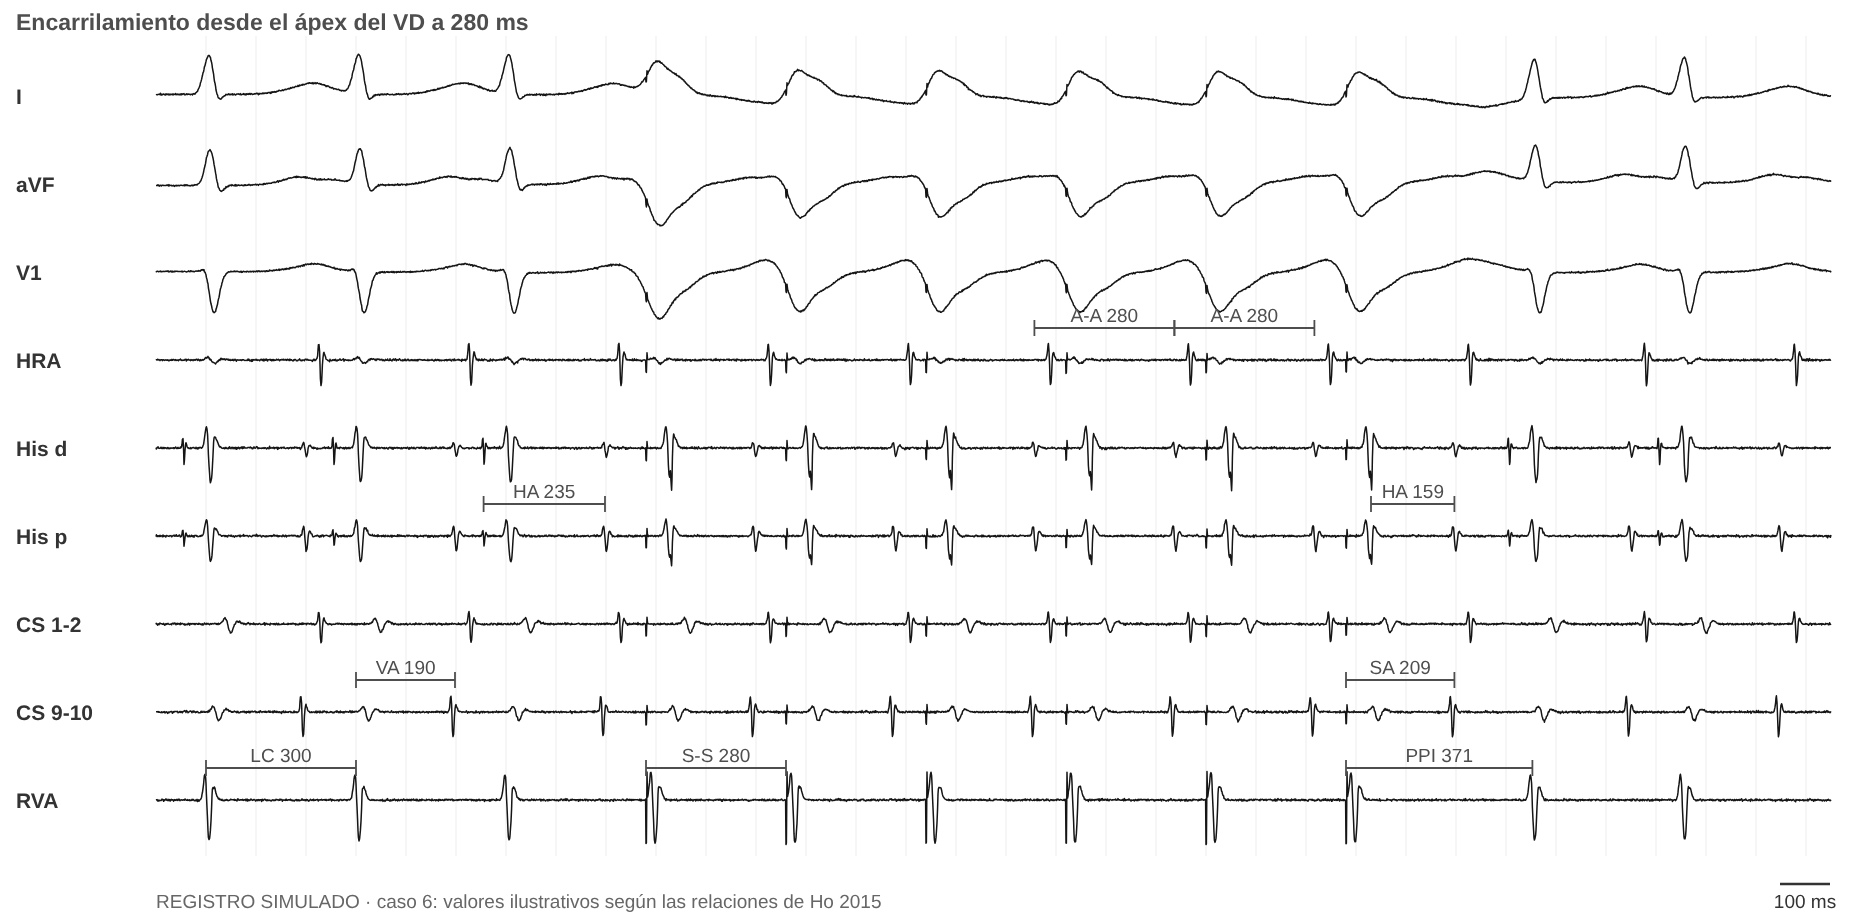
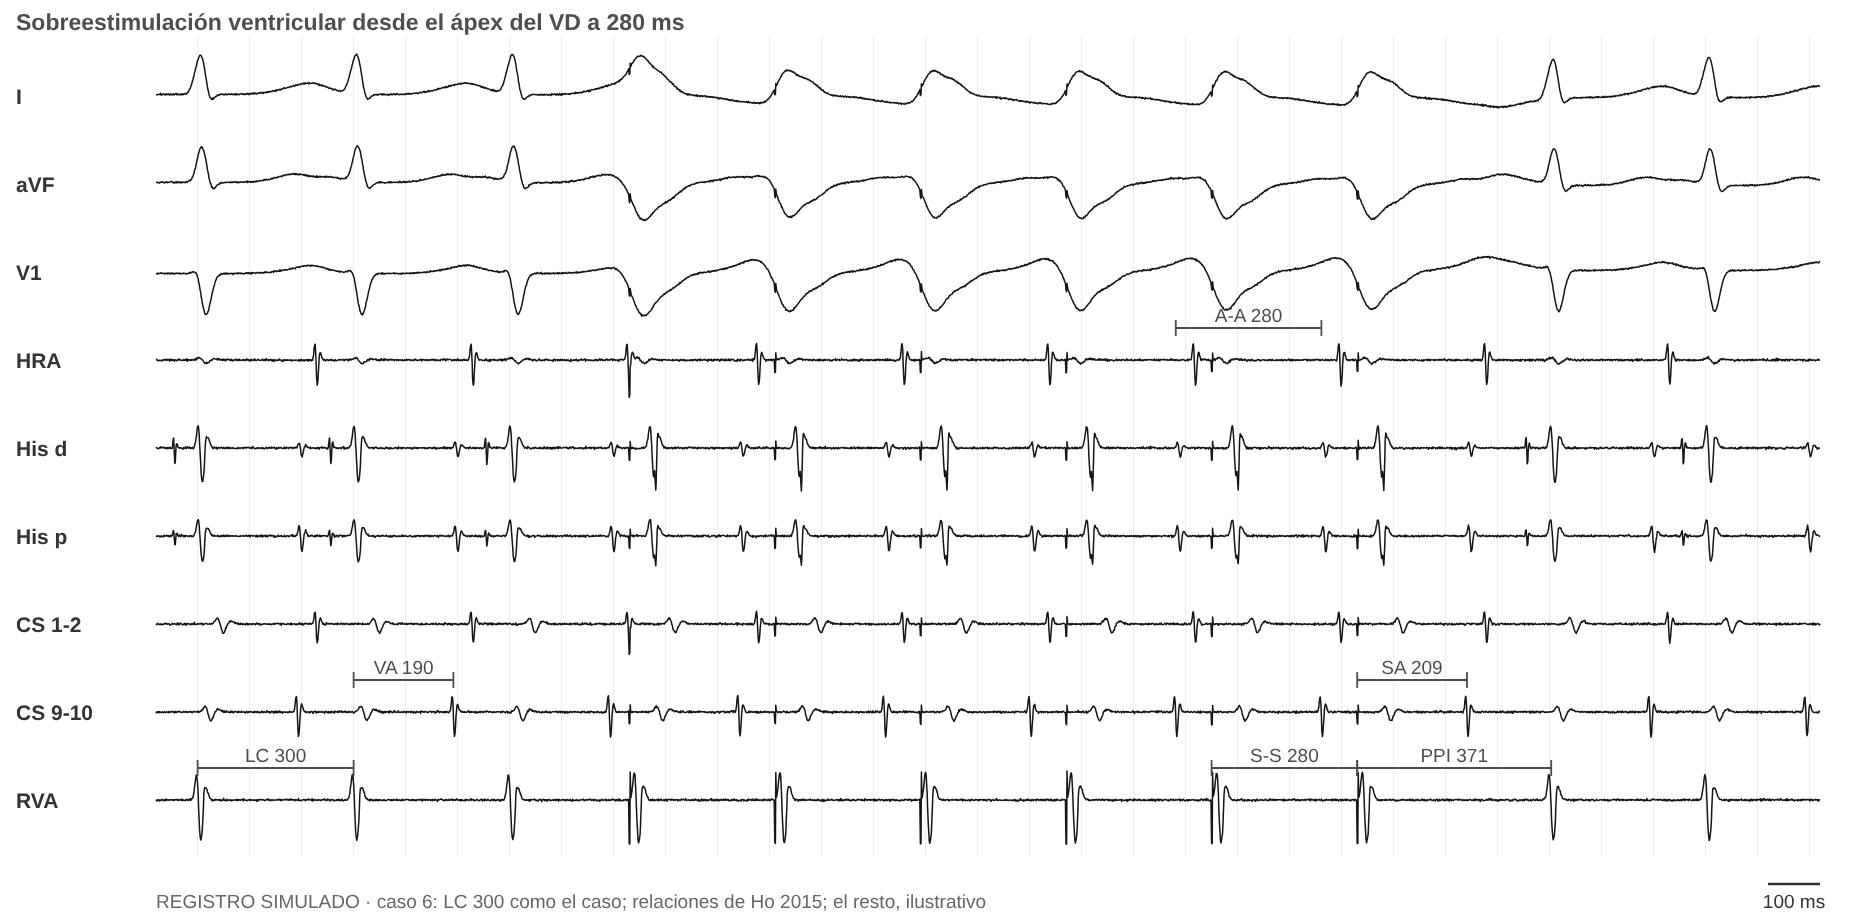
Caso 6 en el formato nuevo: todas las maniobras simuladas, valores durante el análisis y devolución paso a paso
Claude-Session: https://claude.ai/code/session_01Pw5rjt62KK5LeJZoEyFiaM

diff --git a/index.html b/index.html
@@ -313,7 +313,7 @@ dialog::backdrop{background:rgba(0,0,0,.45)}
 
 <div id="visor" hidden role="dialog" aria-label="Imagen ampliada"><div class="vbar"><button type="button" class="vm" aria-label="Achicar">−</button><button type="button" class="vp" aria-label="Agrandar">+</button><button type="button" class="vf">Ajustar</button><button type="button" class="vx">✕ Cerrar</button></div><div class="vbox"><img alt=""></div></div>
 <script>
-const APPV = 155;   // igual al número de CACHE_VERSION de sw.js
+const APPV = 156;   // igual al número de CACHE_VERSION de sw.js
 // ===============================================================================================================
 // Referencias. "propia" = artículo del material base; las demás se citan a través de esas revisiones.
 // ===============================================================================================================
@@ -1341,17 +1341,20 @@ const PCASOS = [
       parahis: { v: 'En sinusal, con captura del His: SA 90 y QRS 95. Solo V: SA 140 y QRS 150. Misma secuencia auricular.', r: 'Respuesta nodal: no hay una vía septal conduciendo en sinusal.', u: 'util', img: 'figs/sim/prac/p5_parahis.png' },
       eha: { v: 'EA desde el ostium del SC con el His refractario: el His siguiente sale a su tiempo (H-H 380).', r: 'No modifica el His.', u: 'util', img: 'figs/sim/prac/p5_eha.png' } },
     dx: ['trnav_a'], ex: 'La inducción con salto de la conducción retrógrada y el RP largo con la A precoz en el ostium del SC plantean TRNAV atípica, PJRT o TA. La respuesta es un seudo A-A-V (SA 380 > LC de estimulación 360): contada desde la última A acelerada es A-V, y el VA linking también excluye la TA. PPI−LC 185, SA−VA 150, ΔHA +25 y ΔVA +30 indican que el ventrículo no está en el circuito, y la EV con His refractario no mueve la A: TRNAV atípica.', refs: ['veen11', 'ho15', 'man95'] },
-  { id: 'c6', t: 'Taquicardia incesante y miocardiopatía', p: 'Niño de 6 años con taquicardia incesante y FEVI de 35 %. ECG: P negativa en las inferiores, RP largo.',
-    ecg: 'figs/sim/casos/c6_ecg.jpg', ecgReal: true, basal: 'figs/sim/casos/c6_basal.png', ind: 'figs/sim/casos/c6_ind.png',
-    h: ['TSV de QRS angosto, LC 300 ms, relación 1:1', 'VA 190 ms, HA 235 ms', 'A más precoz en el ostium del SC'],
-    m: { vop: { r: 'Estimulando a 280 ms el His se captura en forma ortodrómica (misma morfología que en la TSV). Respuesta A-V.', u: 'clave', img: 'figs/sim/prac/p6_vop.png' },
-      medidas: { r: 'PPI−LC 71 ms; ΔVA 19 ms; ΔHA −76 ms.', u: 'clave', img: 'figs/sim/prac/p6_vop.png' },
-      ehr: { r: 'Una EV con His refractario retrasa la A 20 ms sin cambiar la secuencia.', u: 'clave', img: 'figs/sim/prac/p6_ehr.png' },
-      aop: { r: 'ΔAH 10 ms.', u: 'clave', img: 'figs/sim/prac/p6_aop.png' }, diff: { r: 'ΔVA (base − ápex) −15 ms.', u: 'util' },
-      ado: { r: 'La TSV termina con un V: bloqueo en la vía.', u: 'trampa' },
-      parahis: { r: 'Respuesta nodal: la vía conduce más lento que el nodo.', u: 'trampa' },
-      pre: { r: 'Sin doble vía. Conducción VA decremental, concéntrica, más precoz en el ostium del SC.' } },
-    dx: ['pjrt'], ex: 'El His ortodrómico y la EV-HR que retrasa la A demuestran una vía decremental que participa; el ΔAH < 20 ms ubica la aurícula en el circuito. Es una PJRT. La adenosina y la para-Hisiana engañan con las vías decrementales.', refs: ['ho15', 'veen12', 'man95'] },
+  { id: 'c6', t: 'Taquicardia incesante y miocardiopatía', p: 'Niño de 6 años con taquicardia incesante y FEVI de 35 %.',
+    ecg: 'figs/sim/casos/c6_ecg.jpg', ecgReal: true, basal: 'figs/sim/casos/c6_basal.png', ind: 'figs/sim/casos/c6_ind.png', indt: 'Extraestímulo ventricular S1-S2 600-300',
+    h: ['TSV de QRS angosto, LC 300 ms, relación AV 1:1', 'Protocolo: extraestímulo ventricular desde el ápex del VD, S1-S2 600-300'],
+    hk: ['RP largo: VA 190 ms (HA 235) con la A más precoz en el ostium del SC y P negativa en las inferiores. En una taquicardia incesante con miocardiopatía el diferencial es PJRT, TA septal baja y TRNAV atípica.', 'Inducción: con S2 300 el SA se alarga de 150 a 215 ms (conducción retrógrada decremental) y empieza la taquicardia con la misma secuencia auricular.'],
+    m: { vop: { v: 'Estimulando el ápex del VD a 280 ms las A se aceleran a 280 con la misma secuencia; durante la estimulación el His se activa antes que la A, con la misma morfología que en la TSV. Al cortar, el primer electrograma que sigue a la última A es un V (secuencia A-V).', r: 'Respuesta A-V: excluye la TA. El His capturado en forma ortodrómica (fusión intracardíaca) indica que la estimulación entra al circuito por la vía antes que por el His: TRAV.', u: 'clave', img: 'figs/sim/prac/p6_vop.png' },
+      medidas: { v: 'PPI 371 ms con LC 300 (PPI−LC 71). SA 209 ms con VA 190 (SA−VA 19). HA 235 en la TSV y 159 estimulando (ΔHA −76).', r: 'PPI−LC < 115 y SA−VA < 85: el ventrículo está en el circuito. ΔHA < −10: estimulando, His y A se activan en paralelo. Las tres apuntan a TRAV.', u: 'clave', img: 'figs/sim/prac/p6_medidas.png' },
+      diff: { v: 'Encarrilando a 280 ms: SA 209 desde el ápex y SA 194 desde la base del VD (VA 190). ΔVA (base − ápex) −15 ms.', r: 'ΔVA ≤ 20 ms: desde la base el frente llega antes a la vía septal; TRAV.', u: 'clave', img: 'figs/sim/prac/p6_diff.png' },
+      ehr: { v: 'EV desde el ápex con el His refractario: la A siguiente se retrasa 20 ms (A-A 320) con la misma secuencia y la taquicardia sigue.', r: 'Con el His refractario la EV solo pudo llegar a la A por una vía, y retrasarla indica que la vía es decremental. Demuestra la vía y que participa en el circuito: PJRT.', u: 'clave', img: 'figs/sim/prac/p6_ehr.png' },
+      aop: { v: 'Estimulando la AD alta a 280 ms los V se aceleran a 280 (V-V 280; en la TSV, 300) con AH 75 (en la TSV, 65). Al cortar, el VA del primer latido es 190 ms, igual al de la TSV.', r: 'VA linking: excluye la TA. ΔAH (estimulando − TSV) 10 ms < 20: la aurícula forma parte del circuito; excluye la TRNAV atípica.', u: 'clave', img: 'figs/sim/prac/p6_aop.png' },
+      ado: { v: 'La taquicardia termina: el último latido es un V que no conduce a la A.', r: 'Engañosa: la terminación con un V sugiere bloqueo en la vía lenta retrógrada (TRNAV atípica), pero las vías decrementales de la PJRT también son sensibles a la adenosina y bloquean igual.', u: 'trampa', img: 'figs/sim/prac/p6_ado.png' },
+      parahis: { v: 'En sinusal, con captura del His: SA 120 y QRS 95. Solo V: SA 170 y QRS 150. Misma secuencia auricular.', r: 'Engañosa: respuesta nodal porque la vía decremental conduce más lento que el nodo; no excluye la PJRT.', u: 'trampa', img: 'figs/sim/prac/p6_parahis.png' },
+      pre: { v: 'Estimulación ventricular en sinusal a 500 y 400 ms.', r: 'Engañosa: SA 150 a 500 y 200 a 400 (decremental), concéntrica con la A más precoz en el ostium del SC. Parece conducción por el nodo, pero la vía de la PJRT también es decremental.', u: 'trampa', img: 'figs/sim/prac/p6_pre.png' },
+      eha: { v: 'EA desde el ostium del SC con el His refractario: el His siguiente sale a su tiempo (H-H 300).', r: 'No modifica el His: esperable en la TRAV (el EA no puede bajar por el nodo refractario).', u: 'util', img: 'figs/sim/prac/p6_eha.png' } },
+    dx: ['pjrt'], ex: 'Taquicardia incesante de RP largo con la A más precoz en el ostium del SC. La respuesta A-V y el VA linking excluyen la TA; el ΔAH de 10 ms ubica la aurícula en el circuito y excluye la TRNAV atípica. PPI−LC 71, SA−VA 19, ΔHA −76, ΔVA −15 y el His ortodrómico ponen al ventrículo en el circuito, y la EV con His refractario que retrasa la A demuestra una vía decremental que participa: PJRT. La adenosina, la para-Hisiana y la conducción VA decremental engañan porque la vía es decremental.', refs: ['ho15', 'veen12', 'man95'] },
   { id: 'c7', t: 'Taquicardia con A y V simultáneos', p: 'Niña de 13 meses con taquicardia de QRS angosto casi permanente.',
     ecg: 'figs/sim/casos/c7_ecg.png', ecgReal: true, basal: 'figs/sim/casos/c7_basal.png', ind: 'figs/sim/casos/c7_ind.png',
     h: ['TSV de QRS angosto, LC 425 ms', 'Relación 1:1 con A y V simultáneos (VA septal ~0)', 'Activación concéntrica'],

diff --git a/sw.js b/sw.js
@@ -1,6 +1,6 @@
 // Permite instalar la app y abrirla sin conexión. Primero la red (siempre lo último publicado); si no hay, la copia.
 // Si cambiás un archivo, subí CACHE_VERSION.
-const CACHE_VERSION = 'mef-v155';
+const CACHE_VERSION = 'mef-v156';
 const ARCHIVOS = ['./', './index.html', './manifest.json', './iconos/icon-192.png', './iconos/icon-512.png'];
 self.addEventListener('install', e => e.waitUntil(caches.open(CACHE_VERSION).then(c => c.addAll(ARCHIVOS)).then(() => self.skipWaiting())));
 self.addEventListener('activate', e => e.waitUntil(caches.keys().then(ks => Promise.all(ks.filter(k => k !== CACHE_VERSION).map(k => caches.delete(k)))).then(() => self.clients.claim())));

diff --git a/herramientas/simulador/cases6.py b/herramientas/simulador/cases6.py
@@ -609,6 +609,116 @@ S['p5_eha'] = dict(win=(-100, vs[-1] + 250), pxms=0.25, title='EA con His refrac
     cal=[(hs[1], hs[2], 'His d', f'H-H {LC5}'), (hs[2], hs[3], 'His d', f'H-H {LC5}')],
     marks=[(apb, 'V1', 'EA')])
 
+# =====================================================================================================
+# Caso 6 (PJRT; LC 300 como el ECG real, VA 190, AH 65, A más precoz en el ostium del SC).
+# Relaciones de Ho 2015: PPI−LC 71, SA−VA 19, ΔHA −76 con His ortodrómico, EV-HR que retrasa la A 20, ΔAH 10.
+SRC6 = 'caso 6: LC 300 como el caso; relaciones de Ho 2015; el resto, ilustrativo'
+LC6, VA6, AH6, SC6, SA6, PPI6, HAp6 = 300, 190, 65, 280, 209, 371, 159
+
+
+def vop6(title, med):
+    svt = [i * LC6 for i in range(3)]
+    sp = [svt[-1] + 230 + SC6 * k for k in range(6)]
+    A = [v + VA6 for v in svt] + [s + SA6 for s in sp]
+    ret = sp[-1] + PPI6
+    after = [ret, ret + LC6]
+    cal = [(svt[0], svt[1], 'RVA', f'LC {LC6}'), (svt[1], svt[1] + VA6 + 2, 'CS 9-10', f'VA {VA6}'), (sp[-2], sp[-1], 'RVA', f'S-S {SC6}'),
+           (A[-3] + 2, A[-2] + 2, 'HRA', f'A-A {SC6}'), (sp[-1], A[-1] + 2, 'CS 9-10', f'SA {SA6}'), (sp[-1], ret + 2, 'RVA', f'PPI {PPI6}')]
+    marks = []
+    if med:
+        cal = [c for c in cal if not c[3].startswith(('S-S', 'A-A'))]
+        cal += [(svt[1] - HV, svt[1] + VA6, 'His p', f'HA {HV + VA6}'), (A[-1] - HAp6, A[-1], 'His p', f'HA {HAp6}')]
+        marks = [(sp[-1] + 160, 'I', f'SA − VA = {SA6} − {VA6} = {SA6 - VA6} ms'), (sp[-1] + 160, 'aVF', f'PPI − LC = {PPI6} − {LC6} = {PPI6 - LC6} ms'),
+                 (sp[-1] + 160, 'V1', f'ΔHA = {HAp6} − {HV + VA6} = −{HV + VA6 - HAp6} ms')]
+    return dict(win=(-80, after[-1] + 220), pxms=0.26, title=title, channels=CH6, src=SRC6,
+        beats=[(v, 'n') for v in svt + after] + [(s, 'pa') for s in sp], spikes=sp,
+        atr=[(a, 'conc_cs', -1) for a in A + [v + VA6 for v in after]],
+        h_ante=[v - HV for v in svt + after] + [a - HAp6 for a in A[3:]], cal=cal, marks=marks)
+
+
+S['p6_vop'] = vop6('Sobreestimulación ventricular desde el ápex del VD a 280 ms', False)
+S['p6_medidas'] = vop6('Medidas sobre la sobreestimulación ventricular (ápex del VD a 280 ms): PPI, SA y HA', True)
+
+
+def diff6(sa, typ, title):
+    svt = [0, LC6]
+    sp = [560 + SC6 * k for k in range(6)]
+    A = [v + VA6 for v in svt] + [s + sa for s in sp]
+    ret = sp[-1] + PPI6 + (sa - SA6)
+    return dict(win=(-80, ret + LC6 + 220), pxms=0.26, channels=CH6, title=title, spikes=sp, pace_ch='RVA', src=SRC6,
+        beats=[(v, 'n') for v in svt] + [(s, typ) for s in sp] + [(ret, 'n'), (ret + LC6, 'n')],
+        atr=[(a, 'conc_cs', -1) for a in A] + [(ret + VA6, 'conc_cs', -1), (ret + LC6 + VA6, 'conc_cs', -1)],
+        h_ante=[v - HV for v in svt] + [ret - HV, ret + LC6 - HV] + [a - HAp6 for a in A[2:]],
+        cal=[(svt[1], svt[1] + VA6 + 2, 'CS 9-10', f'VA {VA6}'), (sp[-1], A[-1] + 2, 'CS 9-10', f'SA {sa}'), (svt[0], svt[1], 'RVA', f'LC {LC6}')])
+
+
+S['p6_diff_a'] = diff6(209, 'pa', 'A. Encarrilamiento desde el ápex del VD (280 ms)')
+S['p6_diff_b'] = diff6(194, 'pb', 'B. Encarrilamiento desde la base del VD (280 ms)')
+
+# EV con His refractario: la A siguiente se retrasa 20 ms, misma secuencia, la taquicardia sigue.
+k = 3
+vs = [i * LC6 for i in range(k)]
+h_exp = k * LC6 - HV
+A = [v + VA6 for v in vs] + [k * LC6 + VA6 + 20]
+nxt = A[-1] + (LC6 - VA6)
+after = [nxt, nxt + LC6]
+A += [v + VA6 for v in after]
+S['p6_ehr'] = dict(win=(-80, after[-1] + 200), pxms=0.30, title='EV con His refractario durante la taquicardia', channels=CH6, src=SRC6,
+    spikes=[h_exp], pace_ch='RVA', beats=[(v, 'n') for v in vs] + [(h_exp, 'pa')] + [(v, 'n') for v in after],
+    atr=[(a, 'conc_cs', -1) for a in A], h_ante=[v - HV for v in vs] + [h_exp] + [v - HV for v in after],
+    cal=[(A[k - 2] + 2, A[k - 1] + 2, 'CS 9-10', f'A-A {LC6}'), (A[k - 1] + 2, A[k] + 2, 'CS 9-10', f'A-A {LC6 + 20}')],
+    marks=[(h_exp, 'V1', 'EV'), (h_exp, 'His p', 'H')])
+
+# Estudio basal: estimulación del VD a 500 y 400: SA 150 y 200 (decremental), concéntrica con la A precoz en el ostium del SC.
+sp = [0, 500, 1000, 1400, 1800]
+sas = [150, 150, 150, 200, 200]
+S['p6_pre'] = dict(win=(-80, 2150), pxms=0.30, title='Estimulación ventricular en ritmo sinusal: 500 y 400 ms', channels=CH6, src=SRC6,
+    spikes=sp, beats=[(s, 'pa') for s in sp], atr=[(s + a, 'conc_cs', -1) for s, a in zip(sp, sas)],
+    cal=[(sp[0], sp[1], 'RVA', 'S-S 500'), (sp[1], sp[1] + 152, 'CS 9-10', 'SA 150'), (sp[2], sp[3], 'RVA', 'S-S 400'), (sp[3], sp[3] + 202, 'CS 9-10', 'SA 200')])
+
+# Para-Hisiana en sinusal: SA 120 → 170, misma secuencia.
+sp = [0, 650, 1300, 1950]
+cap = [True, False, True, False]
+S['p6_parahis'] = dict(win=(-80, 2300), pxms=0.32, title='Estimulación para-Hisiana en ritmo sinusal', channels=CH6, src=SRC6,
+    spikes=sp, pace_ch='His p', beats=[(s + HV if c else s, 'n' if c else 'pa') for s, c in zip(sp, cap)],
+    atr=[(s + (120 if c else 170), 'conc_cs', -1) for s, c in zip(sp, cap)],
+    cal=[(sp[0], sp[0] + 122, 'CS 9-10', 'SA 120'), (sp[1], sp[1] + 172, 'CS 9-10', 'SA 170'), (sp[2] + HV, sp[2] + HV + 95, 'RVA', 'QRS 95'), (sp[3], sp[3] + 150, 'RVA', 'QRS 150')],
+    marks=[(sp[0] + 30, 'V1', 'His + V'), (sp[1] + 40, 'V1', 'solo V')])
+
+# Sobreestimulación auricular desde la AD alta a 280: AH 75 (TSV 65, ΔAH 10); al cortar, VA 190 como en la TSV.
+AHs6 = AH6 + 10
+vs = [0, LC6, 2 * LC6]
+A = [v + VA6 for v in vs]
+sp = [A[-1] + 200 + 280 * k for k in range(6)]
+pv = [s + 28 + AHs6 + HV for s in sp]
+vs2 = [pv[-1] + LC6, pv[-1] + 2 * LC6]
+S['p6_aop'] = dict(win=(-80, vs2[-1] + 220), pxms=0.24, title='Sobreestimulación auricular desde la AD alta a 280 ms', channels=CH6, src=SRC6,
+    beats=[(v, 'n') for v in vs + pv + vs2], aspikes=sp, apace_ch='HRA',
+    atr=[(a, 'conc_cs', -1) for a in A] + [(s + 5, 'sinus', 1) for s in sp] + [(v + VA6, 'conc_cs', -1) for v in [pv[-1]] + vs2],
+    h_ante=[v - HV for v in vs + pv + vs2],
+    cal=[(vs[0], vs[1], 'RVA', f'V-V {LC6}'), (vs[0], A[0] + 2, 'CS 9-10', f'VA {VA6}'), (A[1] + 2, vs[2] - HV, 'His d', f'AH {AH6}'),
+         (sp[-2], sp[-1], 'HRA', 'S-S 280'), (pv[-2], pv[-1], 'RVA', 'V-V 280'), (sp[-1] + 28, pv[-1] - HV, 'His d', f'AH {AHs6}'),
+         (pv[-1], pv[-1] + VA6 + 2, 'CS 9-10', f'VA {VA6}')])
+
+# Adenosina: termina con un V (bloqueo en la vía).
+vs = [0, LC6, 2 * LC6, 3 * LC6]
+A = [v + VA6 for v in vs[:3]]
+S['p6_ado'] = dict(win=(-80, vs[-1] + 700), pxms=0.25, title='Adenosina IV durante la taquicardia', channels=CH6, src=SRC6,
+    beats=[(v, 'n') for v in vs], atr=[(a, 'conc_cs', -1) for a in A], h_ante=[v - HV for v in vs],
+    cal=[(vs[0], vs[1], 'RVA', f'LC {LC6}'), (vs[1], A[1] + 2, 'CS 9-10', f'VA {VA6}')],
+    marks=[(vs[3] + 120, 'aVF', 'último: V sin A')])
+
+# EA con His refractario desde el ostium del SC: el His siguiente sale a su tiempo.
+hs = [i * LC6 - HV for i in range(6)]
+apb = hs[3] + 10
+vs = [h + HV for h in hs]
+A = [v + VA6 for k2, v in enumerate(vs) if k2 != 3]
+S['p6_eha'] = dict(win=(-100, vs[-1] + 250), pxms=0.27, title='EA con His refractario desde el ostium del SC', channels=CH6, src=SRC6,
+    beats=[(x, 'n') for x in vs], aspikes=[apb], apace_ch='CS 9-10',
+    atr=[(a, 'conc_cs', -1) for a in A] + [(apb + 4, 'conc_cs', 1)], h_ante=hs,
+    cal=[(hs[2], hs[3], 'His d', f'H-H {LC6}'), (hs[3], hs[4], 'His d', f'H-H {LC6}')],
+    marks=[(apb, 'V1', 'EA')])
+
 if __name__ == '__main__':
     for k in (sys.argv[3:] or S):
         render(S[k], f'{OUT}/{k}.svg')

diff --git a/herramientas/simulador/practica.py b/herramientas/simulador/practica.py
@@ -12,8 +12,8 @@ from simlib import render
 S = {**cases.S, **cases2.S, **cases3.S, **cases4.S}
 
 USADAS = ['arias10', 'burri12', 'ho15', 'knight99', 'michaud01', 'p10_ehr', 'p10_vop', 'p11_adec', 'p11_anillo', 'p11_eapre',
-          'p12_eapre', 'p12_pre', 'p13_abll', 'p2_ehr', 'p3_ado', 'p3_vop', 'p4old_ehr_a', 'p4old_ehr_b', 'p4old_pre', 'p5old_ehr', 'p6_aop',
-          'p6_ehr', 'p8_verap_a', 'p8_verap_b', 'p9_diff_a', 'p9_diff_b', 'p9_ehr', 'tvf_post', 'veen11_fusion', 'veen11_pseudo', 'veen12_jt_a', 'veen12_jt_b']
+          'p12_eapre', 'p12_pre', 'p13_abll', 'p2_ehr', 'p3_ado', 'p3_vop', 'p4old_ehr_a', 'p4old_ehr_b', 'p4old_pre', 'p5old_ehr', 'p6old_aop',
+          'p6old_ehr', 'p8_verap_a', 'p8_verap_b', 'p9_diff_a', 'p9_diff_b', 'p9_ehr', 'tvf_post', 'veen11_fusion', 'veen11_pseudo', 'veen12_jt_a', 'veen12_jt_b']
 
 TITULOS = {'veen12_jt_a': 'A. EA con His refractario (ostium del SC)', 'veen12_jt_b': 'B. EA precoz (AD alta)','veen11_pseudo': 'Encarrilamiento desde el ápex del VD','p4old_ehr_a': 'A. EV-HR desde el ápex del VD', 'p4old_ehr_b': 'B. EV-HR desde el VI basal (rama del SC)',
            'p8_verap_a': 'A. Antes del verapamilo', 'p8_verap_b': 'B. Con verapamilo',
@@ -25,7 +25,7 @@ RENOMBRAR = {'LC TSV 430': 'LC 430', 'VA': 'VA 120', 'SA': 'SA 160', 'PPI': 'PPI
 # Calibres agregados: la LC (o el A-A) de la TSV, para que se pueda calcular
 EXTRA = {'p10_vop': [(0, 390, 'RVA', 'LC 390')], 'p10_ehr': [(0, 390, 'RVA', 'LC 390')],
          'p11_eapre': [], 'p12_eapre': []}
-EHR = ['p2_ehr', 'p4old_ehr_a', 'p4old_ehr_b', 'p5old_ehr', 'p6_ehr', 'p9_ehr']   # se agrega el A-A de la TSV
+EHR = ['p2_ehr', 'p4old_ehr_a', 'p4old_ehr_b', 'p5old_ehr', 'p6old_ehr', 'p9_ehr']   # se agrega el A-A de la TSV
 
 
 def limpiar(k, sc):

diff --git a/herramientas/simulador/cases4.py b/herramientas/simulador/cases4.py
@@ -36,7 +36,7 @@ S['p2old_ehr'] = ehr(280, 110, 'conc_cs', 25, src='caso 2 (didáctico): LC 280, 
 S['p5old_ehr'] = ehr(460, 300, 'conc_cs', 0, early=25, src='caso 5 (LC 460 como el ECG real, VA 300); EV-HR con el V local adelantado > 60 ms, sin cambio de la A',
                   lab='A-A 460 (sin cambio)')
 # Caso 6: PJRT, LC 521, VA 290; EV-HR retrasa la A 20 ms.
-S['p6_ehr'] = ehr(300, 190, 'conc_cs', -20, src='caso 6 (LC 300 como el ECG real, VA 190); EV-HR que retrasa la A 20 ms', lab='A-A 320 (+20)')
+S['p6old_ehr'] = ehr(300, 190, 'conc_cs', -20, src='caso 6 (LC 300 como el ECG real, VA 190); EV-HR que retrasa la A 20 ms', lab='A-A 320 (+20)')
 # Caso 9: PJRT (Arias 2010), LC 480, VA 296; EV-HR adelanta la A (magnitud ilustrativa).
 S['p9_ehr'] = ehr(310, 180, 'conc_cs', 20, src='caso 9 (LC 310 como el ECG real, VA 180); EV-HR que adelanta la A 20 ms', lab='A-A 290 (−20)')
 S['p9_ehr']['pxms'] = 0.25
@@ -70,7 +70,7 @@ sp = [A[-1] + 230 + 280 * k for k in range(6)]
 pv = [s + 28 + AH + 10 + HV for s in sp]
 last = pv[-1]
 vs2 = [last + LC, last + 2 * LC]
-S['p6_aop'] = dict(win=(-80, vs2[-1] + 300), pxms=0.25, channels=CH, title='Sobreestimulación auricular desde la AD alta a 280 ms',
+S['p6old_aop'] = dict(win=(-80, vs2[-1] + 300), pxms=0.25, channels=CH, title='Sobreestimulación auricular desde la AD alta a 280 ms',
     src='caso 6: valores ilustrativos (ΔAH 10 ms de Ho 2015)',
     beats=[(v, 'n') for v in vs + pv + vs2], aspikes=sp, apace_ch='HRA',
     atr=[(a, 'conc_cs', -1) for a in A] + [(s + 5, 'sinus', 1) for s in sp] + [(v + VA, 'conc_cs', -1) for v in [last] + vs2],

diff --git a/herramientas/simulador/cases5.py b/herramientas/simulador/cases5.py
@@ -277,7 +277,7 @@ sp = [svt[-1] + 280 * (k + 1) for k in range(6)]
 A = [v + VA6 for v in svt] + [s + 209 for s in sp]
 ret = sp[-1] + 371
 after = [ret, ret + LC6]
-S['p6_vop'] = dict(win=(-100, after[-1] + 300), pxms=0.25, title='Encarrilamiento desde el ápex del VD a 280 ms', channels=CH6,
+S['p6old_vop'] = dict(win=(-100, after[-1] + 300), pxms=0.25, title='Encarrilamiento desde el ápex del VD a 280 ms', channels=CH6,
     src='caso 6: valores ilustrativos según las relaciones de Ho 2015',
     beats=[(v, 'n') for v in svt + after] + [(x, 'pa') for x in sp], spikes=sp,
     atr=[(a, 'conc_cs', -1) for a in A + [v + VA6 for v in after]],
